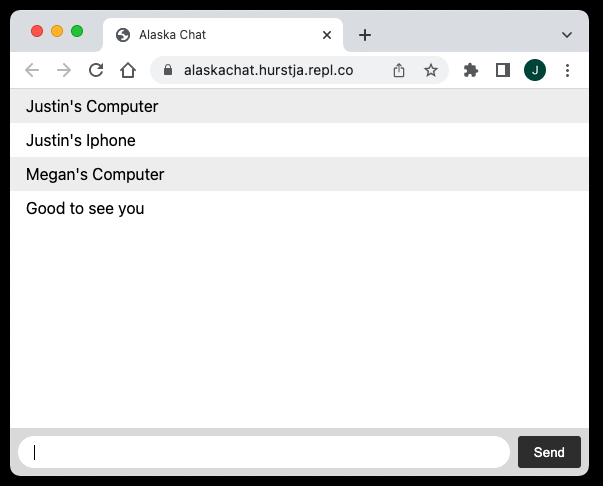
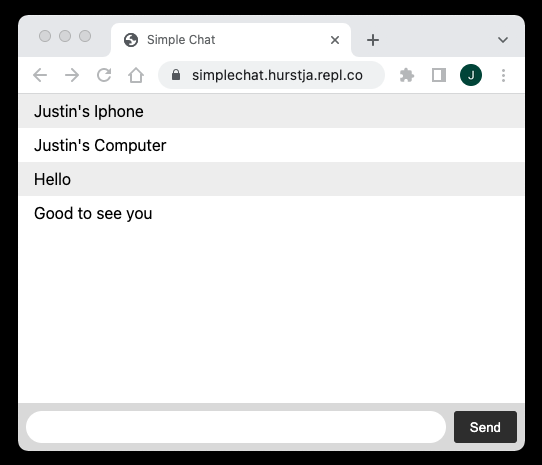
editedReadme

Changed region(s): [[0.0, 0.0, 1.0, 0.9935]]

diff --git a/index.html b/index.html
@@ -1,7 +1,7 @@
 <!DOCTYPE html>
 <html>
   <head>
-    <title>Alaska Chat</title>
+    <title>Simple Chat</title>
     <style>
       body { margin: 0; padding-bottom: 3rem; font-family: -apple-system, BlinkMacSystemFont, "Segoe UI", Roboto, Helvetica, Arial, sans-serif; }
 

diff --git a/README.md b/README.md
@@ -1,4 +1,4 @@
-# Alaska Chat - A chat app built with Socket.IO
+# Simple Chat- A chat app built with Socket.IO
 
 This is a barebones chat application, built using boilerplate code from [Socket.IO](http://socket.io/get-started/chat/)
 
@@ -8,7 +8,7 @@ This is a barebones chat application, built using boilerplate code from [Socket.
 
 
 Follow these steps to run the project:
-  - Open in Repl.it [here](https://replit.com/@hurstja/alaskachat#index.js)
+  - Open in Repl.it [here](https://replit.com/@hurstja/simplechat#index.js)
   - Fork Repl to your own account
   - In the forked version click on 'Shell' and type 'npm start' to start the server
     - The application won't work unless the server has been started
